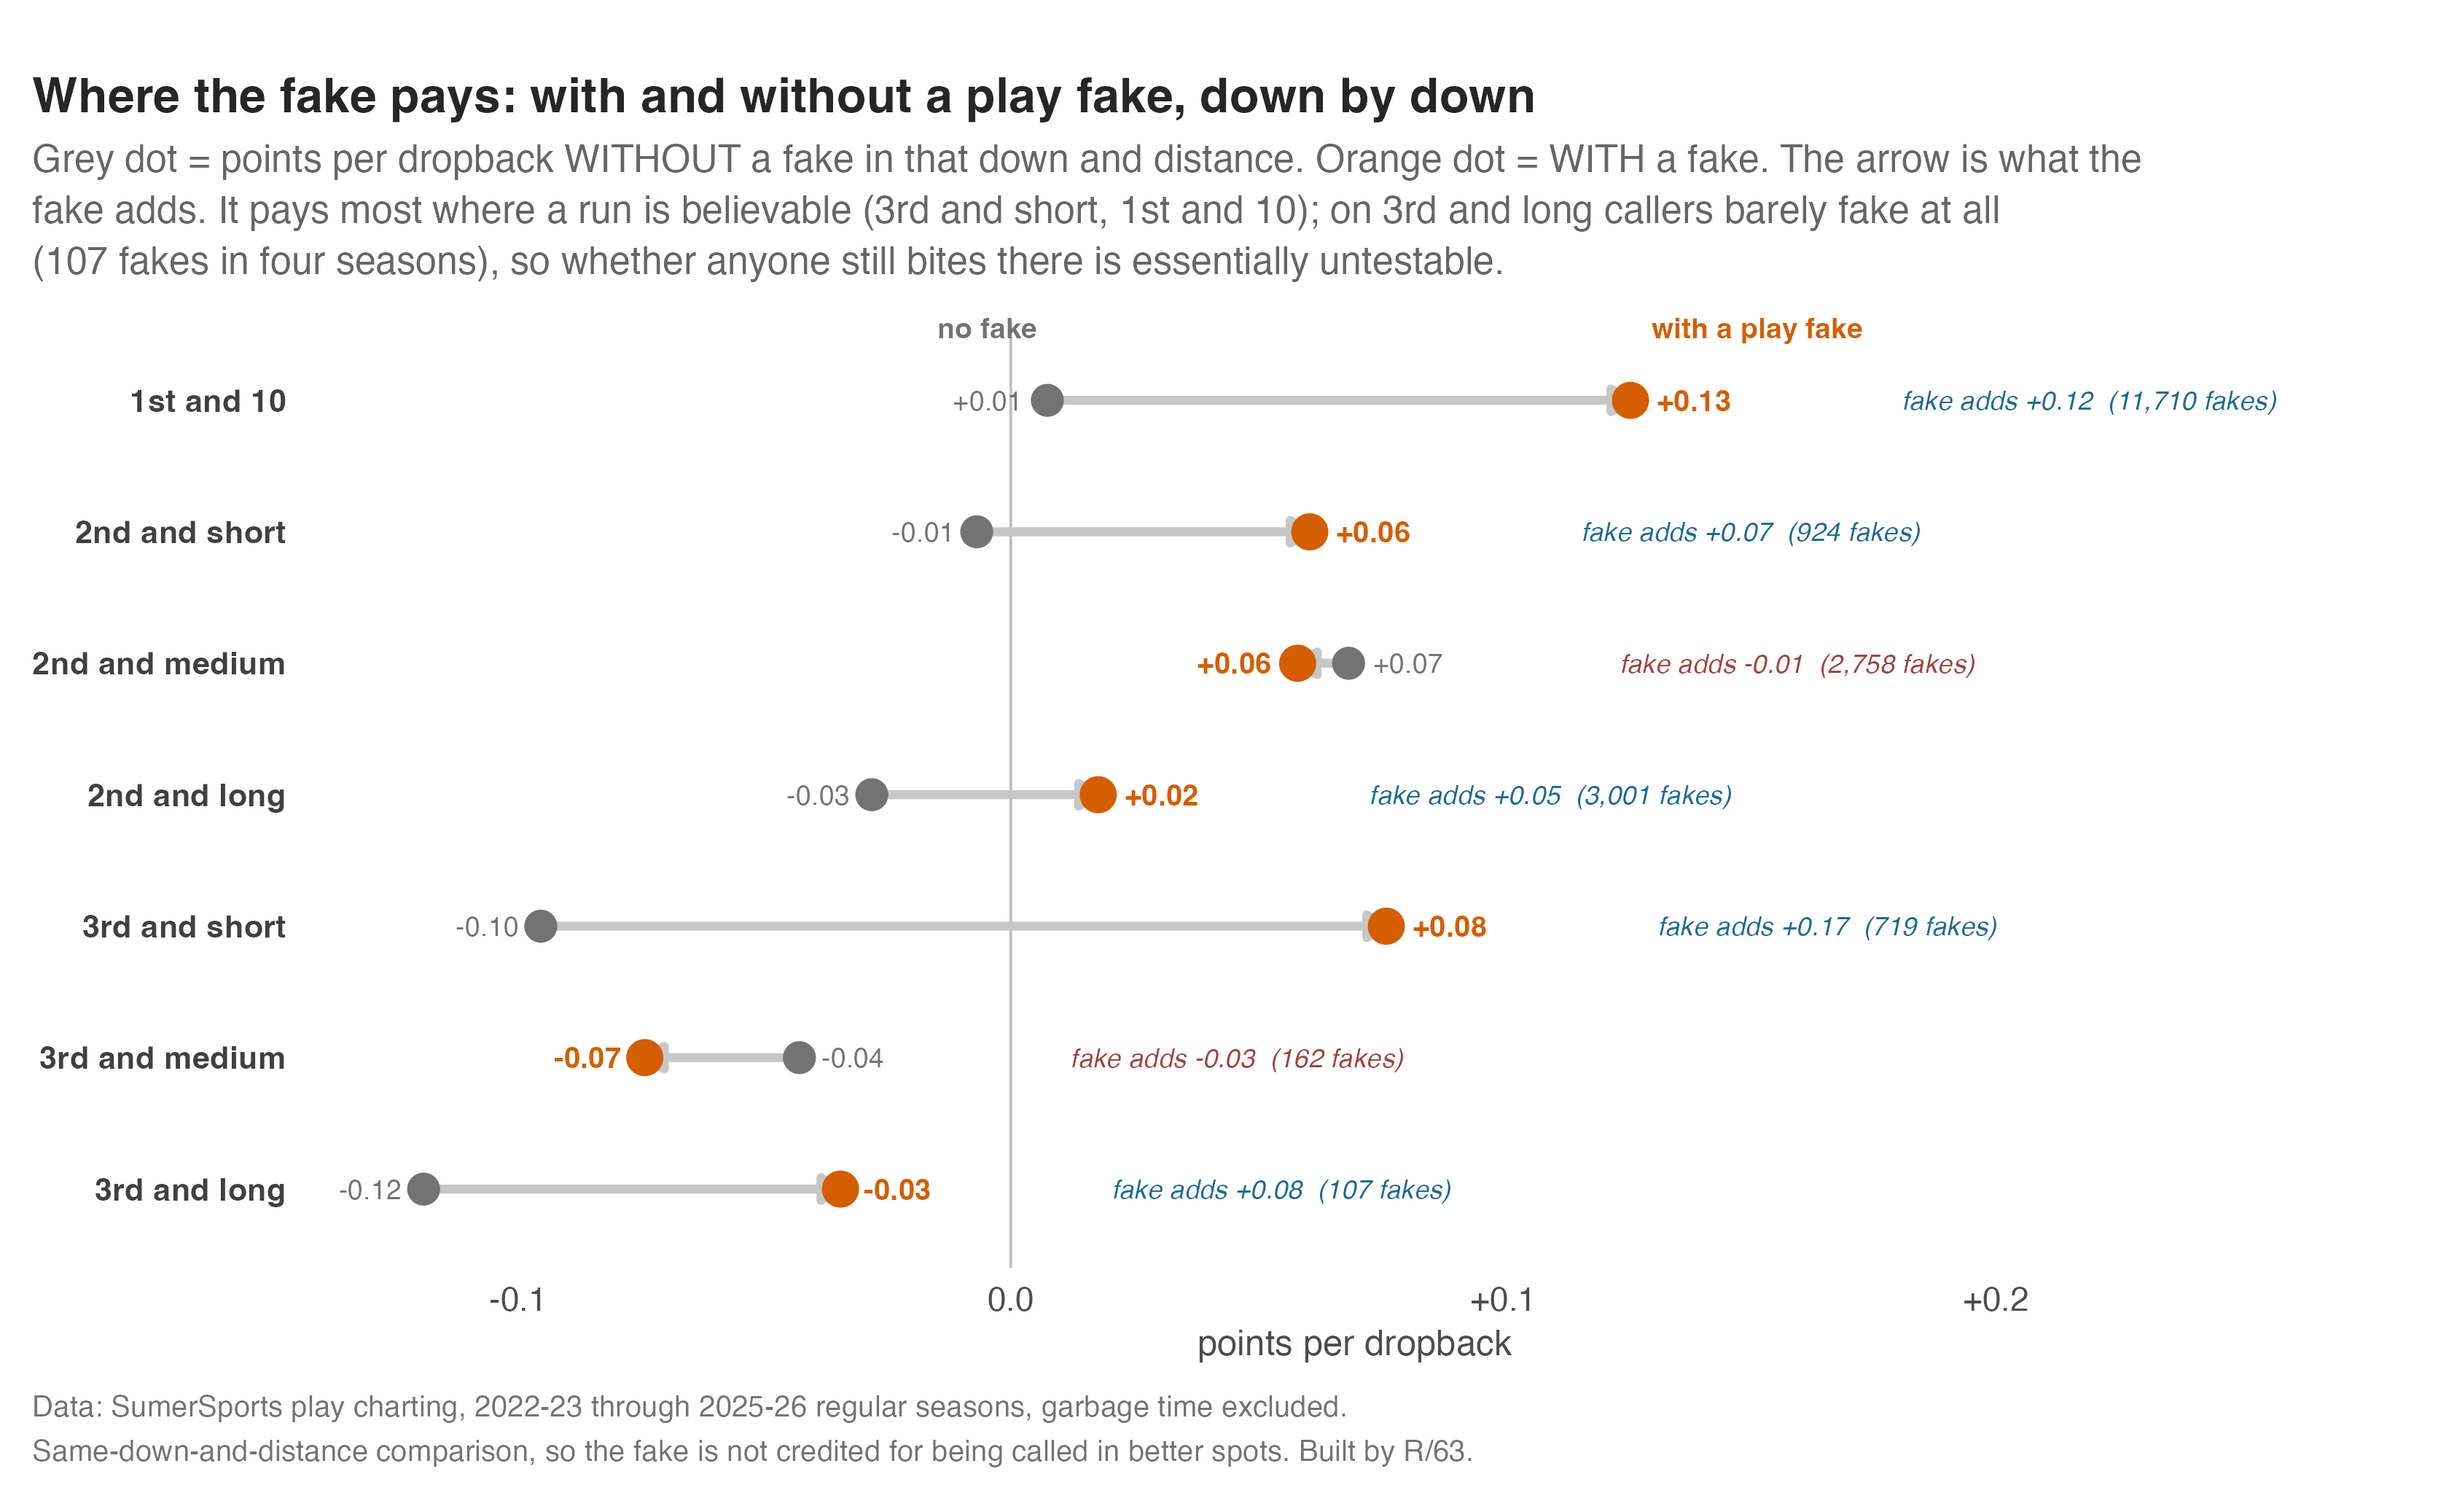
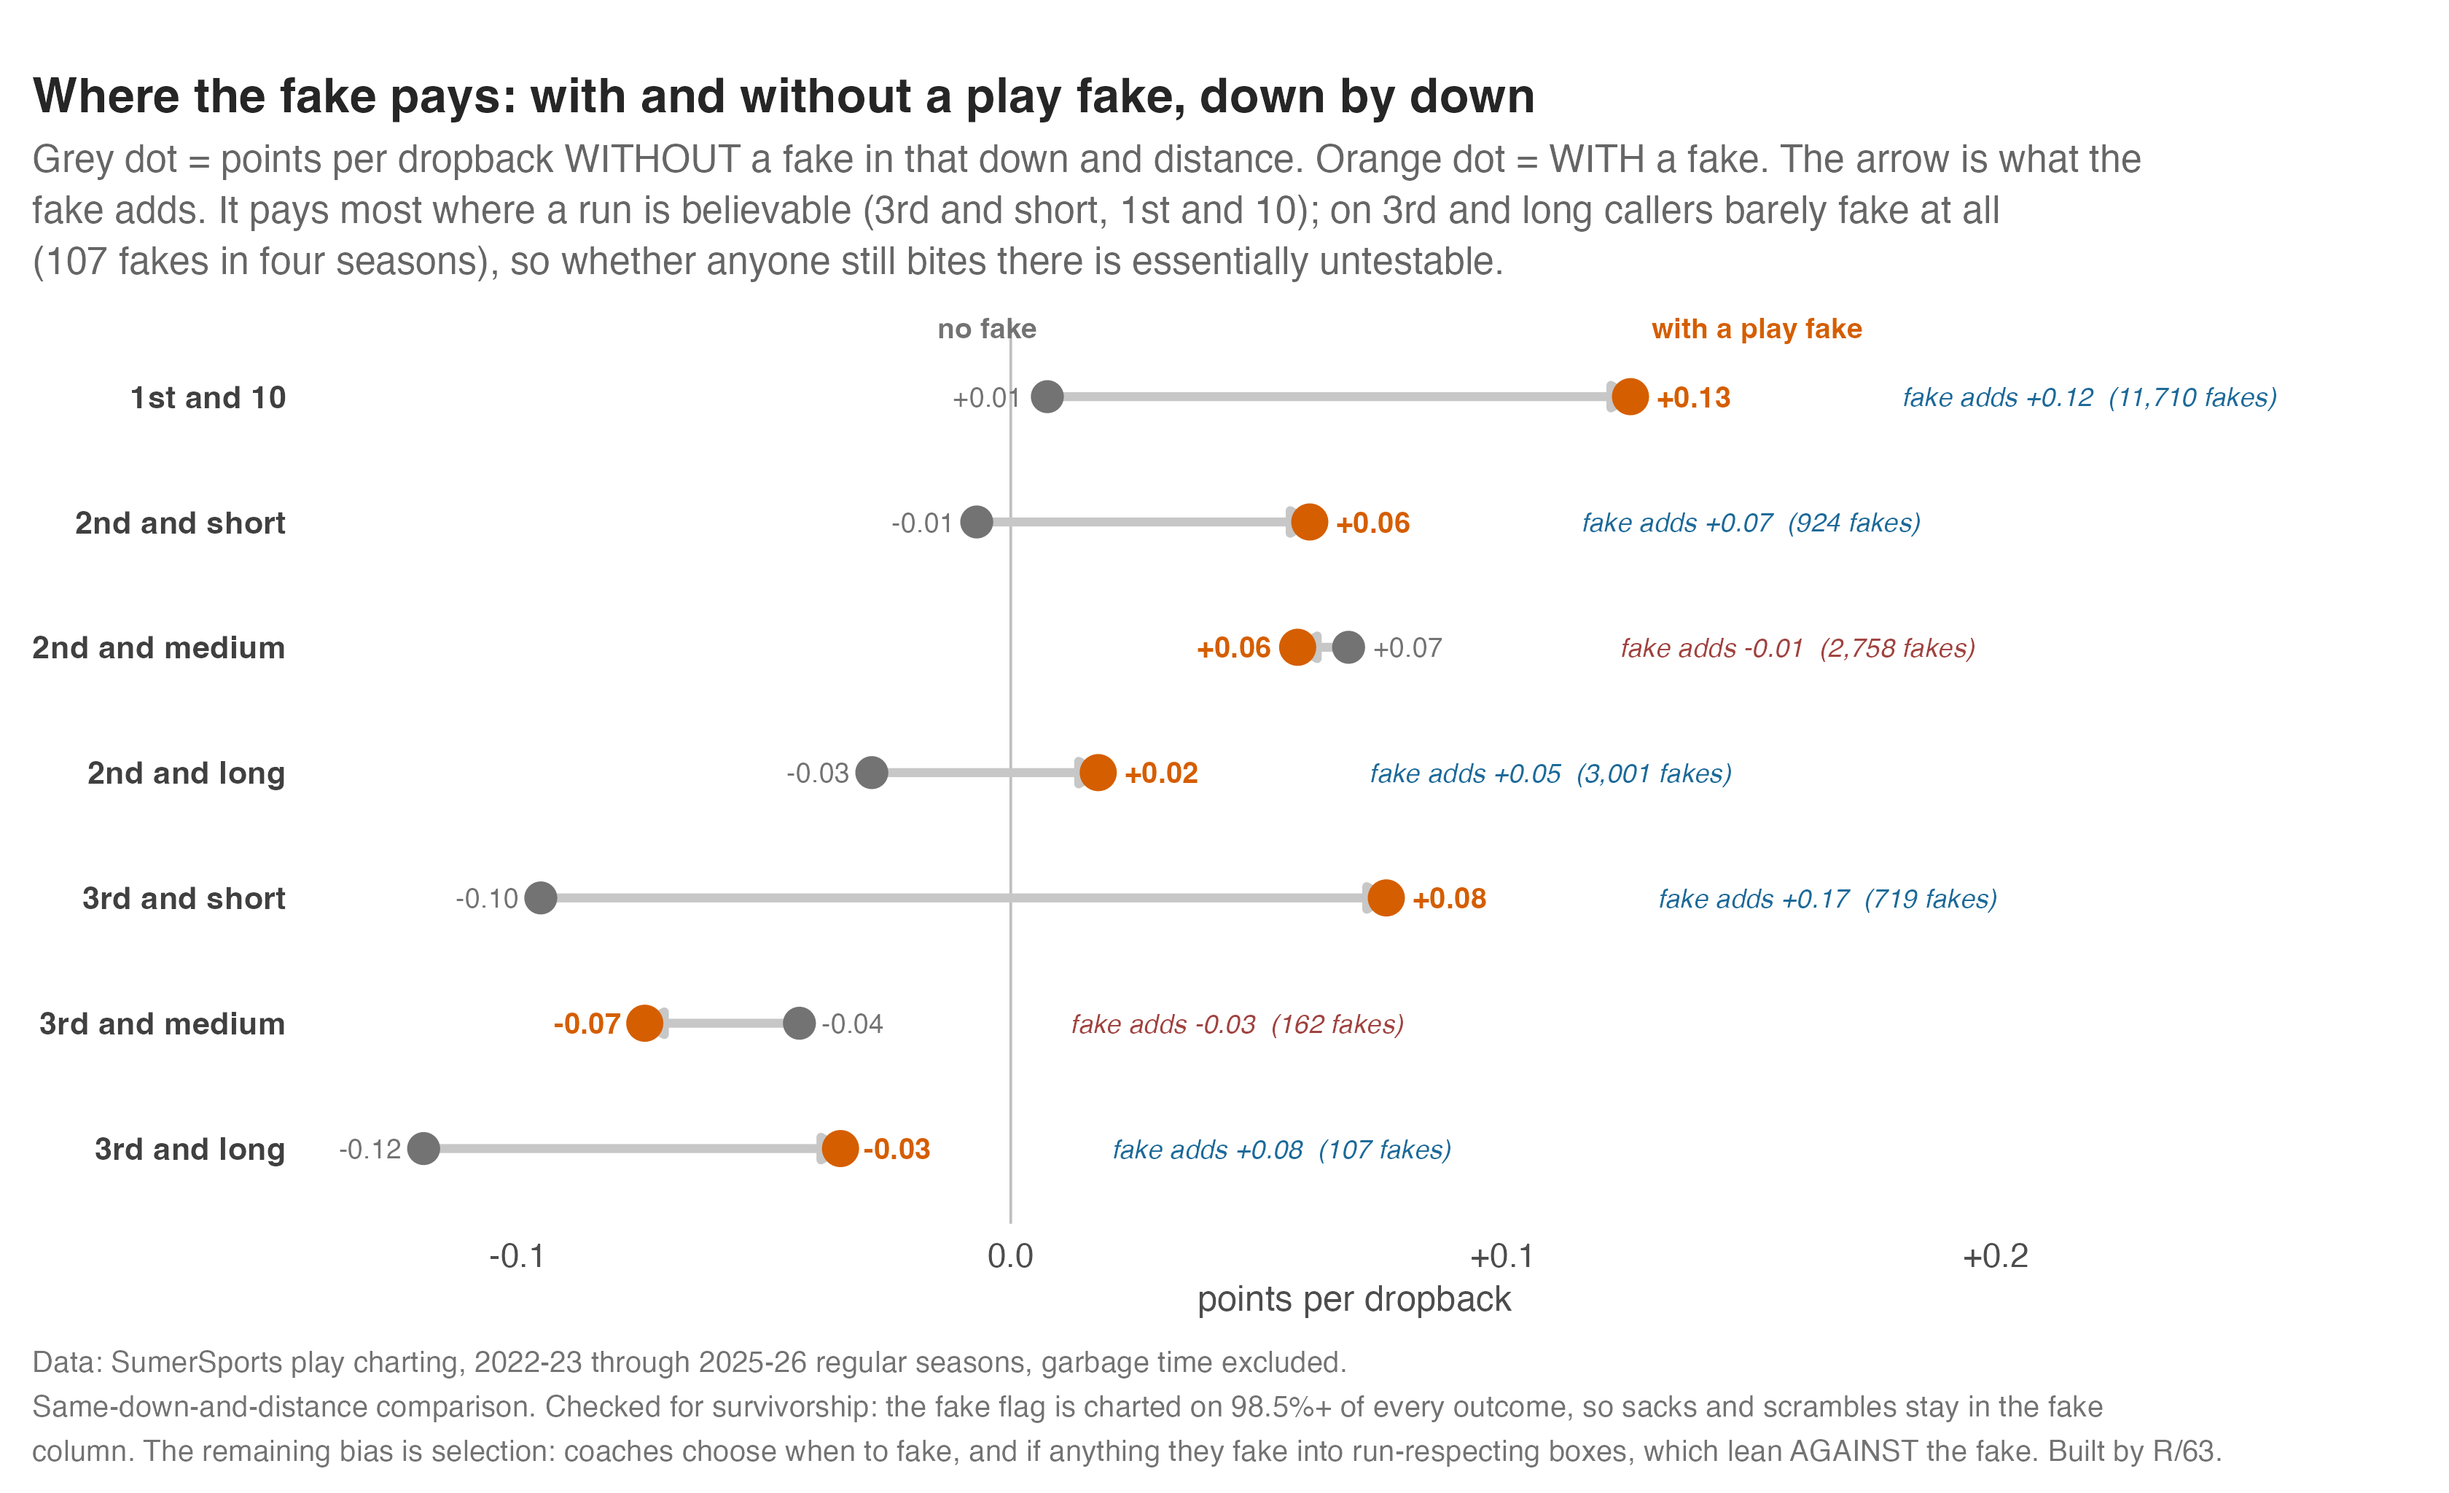
PA charts: survivorship checked clean, selection-bias direction disclosed

diff --git a/docs/index.html b/docs/index.html
@@ -163,7 +163,7 @@
         <img src="figures/pa_when_bite.png" alt="Play-fake payoff by down and distance, biggest on third and short and first and ten, small samples in pass-obvious spots.">
         <figcaption>Where the fake pays, same down and distance compared. Built by R/63.</figcaption>
       </figure>
-      <p class="row"><span class="lab">The catch:</span> without tracking, a defender who bites but recovers is invisible here; the 538 study measured steps, this measures points, and the two can disagree on mechanism while agreeing on outcome.</p>
+      <p class="row"><span class="lab">The catch:</span> without tracking, a defender who bites but recovers is invisible here (538 measured steps, this measures points); survivorship was checked and is clean, the fake flag is charted on sacks and scrambles too, so the fake&#x27;s failures stay in the fake column; the bias that remains is selection, coaches choose when to fake, and the direction of that bias leans against the fake, since fakes get called into run-respecting fronts.</p>
     </div>
 
     <div class="card">
